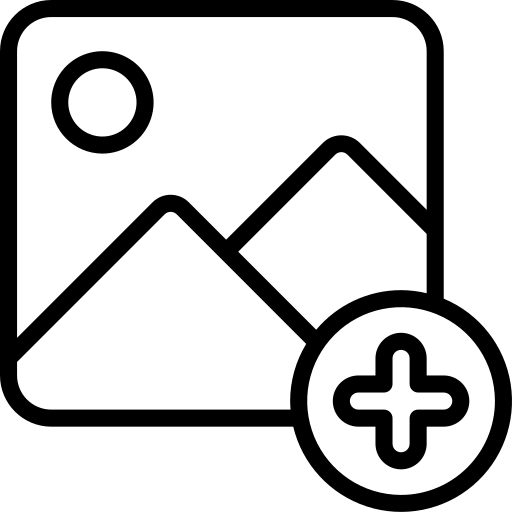
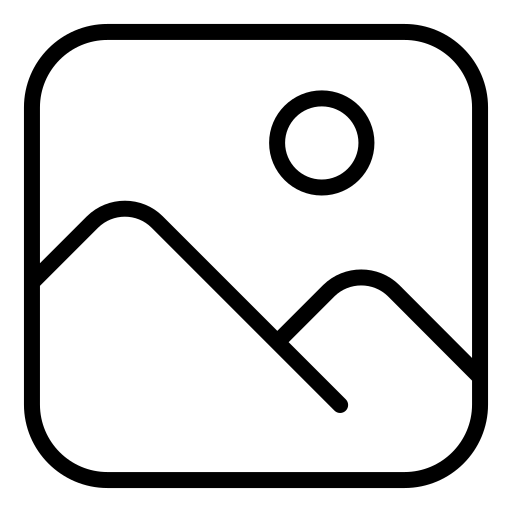
style: revise supplies GUI | add: file upload and image compressor for file upload

diff --git a/app/src/main/kotlin/org/db_poultry/controller/CreateSuppliesController.kt b/app/src/main/kotlin/org/db_poultry/controller/CreateSuppliesController.kt
@@ -10,14 +10,32 @@ import javafx.scene.text.Text
 import org.db_poultry.db.DBConnect.getConnection
 import org.db_poultry.db.supplyTypeDAO.CreateSupplyType.createSupplyType
 
+import javafx.stage.FileChooser
+
 import javafx.fxml.Initializable
+import javafx.scene.image.ImageView
+import javafx.scene.layout.Pane
+import org.db_poultry.util.GeneralUtil
+import java.awt.image.BufferedImage
+import java.io.File
+import java.io.FileOutputStream
 import java.net.URL
+import java.nio.file.Files
+import java.nio.file.StandardCopyOption
 import java.util.ResourceBundle
+import javax.imageio.IIOImage
+import javax.imageio.ImageIO
+import javax.imageio.ImageWriteParam
+import javax.imageio.ImageWriter
+import kotlin.collections.addAll
+import kotlin.compareTo
+import kotlin.div
+import kotlin.toString
 
 class CreateSuppliesController: Initializable {
 
     @FXML
-    private lateinit var anchorPane: AnchorPane
+    private lateinit var createSuppliesAnchorPane: AnchorPane
 
     @FXML
     private lateinit var btnConfirm: Button
@@ -29,37 +47,90 @@ class CreateSuppliesController: Initializable {
     private lateinit var createSuppliesTextFieldUnit: TextField
 
     @FXML
-    private lateinit var shapeBg: Rectangle
+    private lateinit var uploadImagePane: Pane
 
-    @FXML
-    private lateinit var textBody1: Text
-
-    @FXML
-    private lateinit var textBody2: Text
-
-    @FXML
-    private lateinit var textHeader: Text
+    private var selectedImageFile: File? = null
 
     override fun initialize(location: URL?, resources: ResourceBundle?) {
-        // Initialization logic if needed
+//        GeneralUtil.resizeImageViewToFit(createSuppliesAnchorPane, uploadFileImageView)
     }
 
     @FXML
     fun confirm() {
-
         val supplyName = createSuppliesTextField.text
         val supplyUnit = createSuppliesTextFieldUnit.text
 
         println("\nSupply Name: $supplyName")
         println("Supply Unit: $supplyUnit")
 
+        selectedImageFile?.let { file ->
+            val resourcesDir = File("src/main/resources/img/supply-img")
+            if (!resourcesDir.exists()) resourcesDir.mkdirs()
+            val targetFile = File(resourcesDir, "${supplyName.lowercase()}.jpg")
+
+            // Crop and compress all images to JPEG
+            cropCenterSquareAndCompress(file, targetFile)
+            println("Image copied to: ${targetFile.absolutePath}")
+        }
+
         if (createSupplyType(getConnection(), supplyName, supplyUnit) != null) {
             println("Successfully created Supply type.")
-        }
-        else {
+        } else {
             println("Failed to create Supply type.")
         }
 
+        createSuppliesTextField.clear()
+        createSuppliesTextFieldUnit.clear()
+        uploadImagePane.style = "-fx-background-image: none;"
+    }
+
+    @FXML
+    fun uploadSupplyImage() {
+        val fileChooser = FileChooser()
+        fileChooser.title = "Select Image"
+        fileChooser.extensionFilters.addAll(
+            FileChooser.ExtensionFilter("Image Files", "*.png", "*.jpg", "*.jpeg", "*.gif", "*.bmp")
+        )
+        val file = fileChooser.showOpenDialog(uploadImagePane.scene.window)
+        if (file != null) {
+            selectedImageFile = file
+            val imageUrl = file.toURI().toString()
+            uploadImagePane.style = """
+            -fx-background-image: url("$imageUrl");
+            -fx-background-size: 117%;
+            -fx-background-position: center center;
+            -fx-border-color: black;
+            -fx-border-width: 2;
+        """.trimIndent()
+        }
+    }
+
+    fun cropCenterSquareAndCompress(inputFile: File, outputFile: File, maxSizeBytes: Long = 2 * 1024 * 1024) {
+        val original: BufferedImage = ImageIO.read(inputFile)
+        val size = minOf(original.width, original.height)
+        val x = (original.width - size) / 2
+        val y = (original.height - size) / 2
+        val cropped = original.getSubimage(x, y, size, size)
+
+        val writers = ImageIO.getImageWritersByFormatName("jpg")
+        val writer: ImageWriter = writers.next()
+        var quality = 1.0f
+
+        do {
+            val param = writer.defaultWriteParam
+            param.compressionMode = ImageWriteParam.MODE_EXPLICIT
+            param.compressionQuality = quality
+
+            FileOutputStream(outputFile).use { fos ->
+                writer.output = ImageIO.createImageOutputStream(fos)
+                writer.write(null, IIOImage(cropped, null, null), param)
+            }
+
+            if (outputFile.length() <= maxSizeBytes || quality < 0.1f) break
+            quality -= 0.1f
+        } while (true)
+
+        writer.dispose()
     }
 
 }

diff --git a/app/src/main/kotlin/org/db_poultry/controller/SuppliesGridHomeController.kt b/app/src/main/kotlin/org/db_poultry/controller/SuppliesGridHomeController.kt
@@ -133,20 +133,21 @@ class SuppliesGridHomeController: Initializable {
             fitWidth = 200.0
             isPickOnBounds = true
             isPreserveRatio = true
-            
-            // Try to load specific image for supply type, fallback to default
-            try {
-                val imagePath = "/img/supply-img/${supplyType.name}.png"
-                val imageUrl = javaClass.getResource(imagePath)
-                if (imageUrl != null) {
-                    image = Image(imageUrl.toString())
-                } else {
-                    // Fallback to default image
-                    image = Image(javaClass.getResource("/img/supply-img/default.png")?.toString())
-                }
-            } catch (e: Exception) {
-                // Fallback to default image if any error
-                image = Image(javaClass.getResource("/img/supply-img/default.png")?.toString())
+
+            val supportedExtensions = listOf("jpg", "png", "jpeg", "gif", "bmp")
+            val basePath = "/img/supply-img/${supplyType.name}"
+            var imageUrl: URL? = null
+
+            for (ext in supportedExtensions) {
+                val path = "$basePath.$ext"
+                imageUrl = javaClass.getResource(path)
+                if (imageUrl != null) break
+            }
+
+            image = if (imageUrl != null) {
+                Image(imageUrl.toString())
+            } else {
+                Image(javaClass.getResource("/img/supply-img/default.png")?.toString())
             }
             
             VBox.setMargin(this, Insets(10.0, 0.0, 0.0, 0.0))

diff --git a/app/src/main/resources/styles/create_supplies.css b/app/src/main/resources/styles/create_supplies.css
@@ -2,3 +2,12 @@
     -fx-background-color: white;
     -fx-background-radius: 35;
 }
+
+.file-img {
+    -fx-background-image: url("../img/create-supplies/insert-image.png");
+    -fx-background-size: 135%;
+    -fx-background-position: center center;
+    -fx-border-color: black;
+    -fx-border-width: 2;
+
+}
